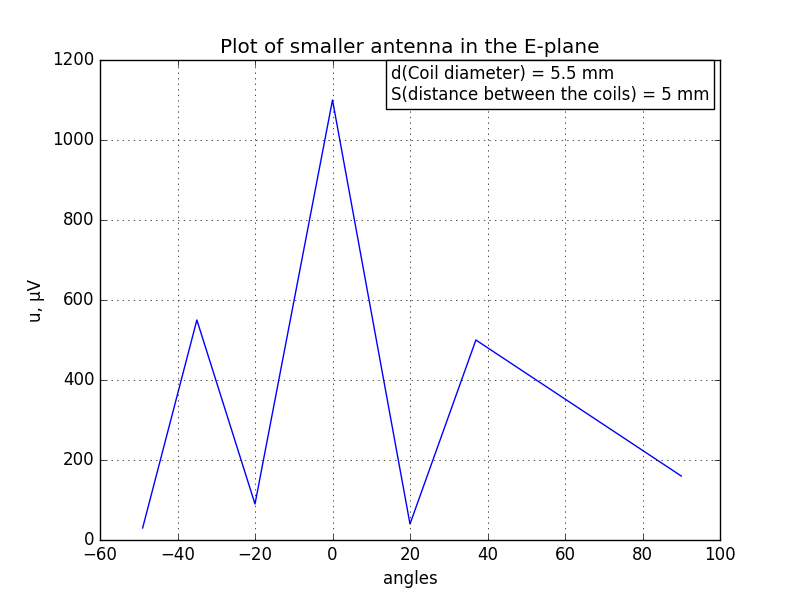
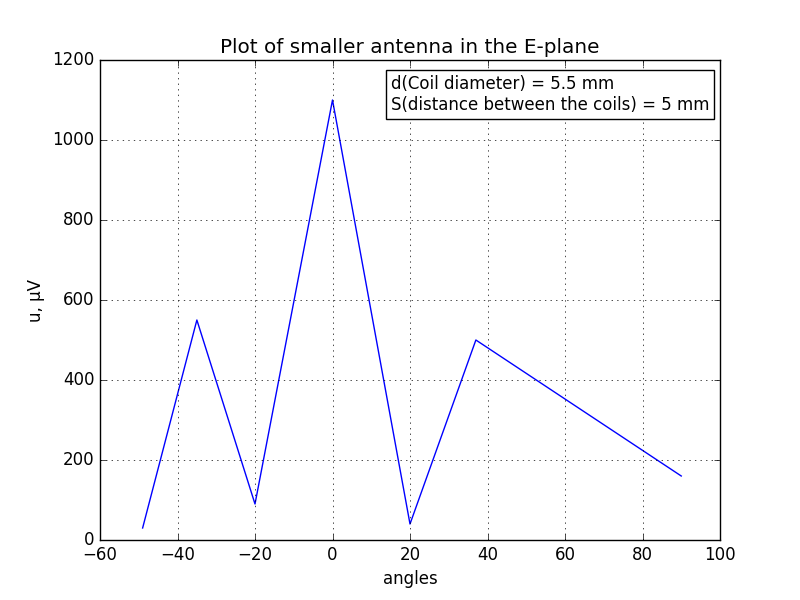
Added Readme.md

Changed region(s): [[0.4688, 0.09, 0.9062, 0.21]]

diff --git a/Helical antennas/small_ant_e.py b/Helical antennas/small_ant_e.py
@@ -11,7 +11,7 @@ u = np.array     ([30, 550, 90, 1100, 40, 500, 160])
 
 plt.plot(angles, u)
 plt.title("Plot of smaller antenna in the E-plane")
-plt.text(15, 1100, s="d(Coil diameter) = 5.5 mm \nS(distance between the coils) = 5 mm", bbox = {"boxstyle":"square", "facecolor":"w"})
+plt.text(15, 1075, s="d(Coil diameter) = 5.5 mm \nS(distance between the coils) = 5 mm", bbox = {"boxstyle":"square", "facecolor":"w"})
 plt.xlabel('angles')
 plt.ylabel('u, µV')
 

diff --git a/Helical antennas/Readme.md b/Helical antennas/Readme.md
@@ -2,7 +2,7 @@
 
 My research of helical antennas. The plots shows a diagram of the radiation helical antennas. This part of the laboratory work on the course "Electromagnetic Fields and Waves". Were five antennas initially.
 
-The task was to find a one spiral antenna in which the area of one coil is approximately equal to the calculated wavelength at a frequency of 10,000 MHz.
+The task was to find a one spiral antenna in which the area of one coil is approximately equal to the calculated wavelength at a frequency of 10 000 MHz.
 
 Wavelength(λ) = 3 cm
 
